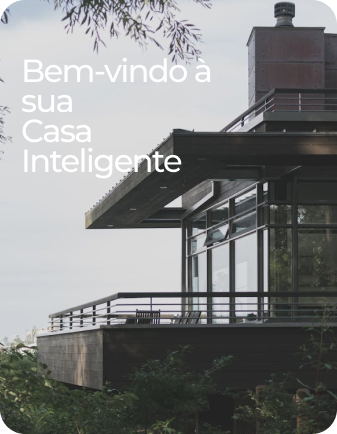
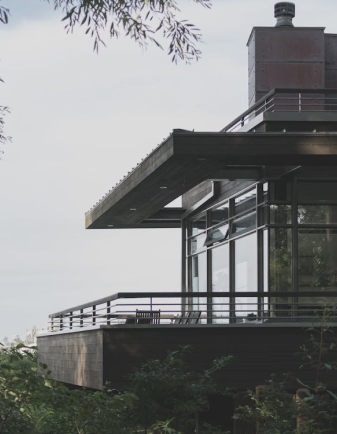
tela de boas-vindas e instalação de fontes

diff --git a/app/index.jsx b/app/index.jsx
@@ -1,15 +1,31 @@
 import { StyleSheet, Text, View, Image } from "react-native"
 import { Link } from "expo-router"
+import { StatusBar } from 'expo-status-bar'
+
+import { useFonts, Montserrat_500Medium } from "@expo-google-fonts/montserrat"
+import { Inter_400Regular } from "@expo-google-fonts/inter"
+import { useEffect } from "react"
 
 export default function Page() {
+  const [fontLoaded] = useFonts({
+    Montserrat_500Medium,
+    Inter_400Regular
+  })
+
+  if (!fontLoaded) {
+    return null
+  }
+
   return (
     <View style={styles.container}>
       <View style={styles.main}>
-        <Image style={styles.image} source={require("../assets/images/homeImage.png")} />
-        <Link href="#">Vamos começar</Link>
-        
-
+        <View style={styles.imageWrapper}>
+          <Image style={styles.image} source={require("../assets/images/homeImage.png")} />
+          <Text style={styles.text}>Bem-vindo à {"\n"}sua {"\n"}Casa {"\n"}Inteligente</Text>
+        </View>
+        <Link style={styles.button} href="/home">Vamos começar</Link>
       </View>
+      <StatusBar style="dark" />
     </View>
   );
 }
@@ -22,8 +38,37 @@ const styles = StyleSheet.create({
   },
   main: {
     flex: 1,
+    alignItems: "center",
+    gap: 50,
     justifyContent: "center",
     maxWidth: 960,
     marginHorizontal: "auto",
   },
+  imageWrapper: {
+    position: "relative"
+  },
+  image: {
+    position: "relative",
+    borderRadius: 25
+  },
+  text: {
+    fontFamily: "Montserrat_500Medium",
+    fontSize: 32,
+    letterSpacing: -1.3,
+    color: "white",
+    lineHeight: 30,
+    position: "absolute",
+    top: 60,
+    left: 20
+  },
+  button: {
+    backgroundColor: "#232323",
+    width: 225,
+    padding: 14,
+    color: "white",
+    textAlign: "center",
+    fontSize: 18,
+    borderRadius: 50,
+    fontFamily: 'Inter-Regular' 
+  }
 })

diff --git a/app/home.jsx b/app/home.jsx
@@ -1,0 +1,47 @@
+import { StyleSheet, Text, View, Image } from "react-native"
+import { Link } from "expo-router"
+import { StatusBar } from 'expo-status-bar'
+
+import { useFonts, Montserrat_500Medium } from "@expo-google-fonts/montserrat"
+import { Inter_400Regular } from "@expo-google-fonts/inter"
+
+function Home() {
+  const useName = "Luiz"
+
+  const [fontLoaded] = useFonts({
+    Montserrat_500Medium,
+    Inter_400Regular
+  })
+
+  if (!fontLoaded) {
+    return null
+  }
+
+  return ( 
+    <View style={styles.wrapper}>
+      <View>
+        <Text style={styles.mainText}>Olá {useName}, {"\n"}<Text style={styles.mainTextSecondColor}>Bem-vindo {"\n"}ao Lar!</Text></Text>
+      </View>
+      
+      <StatusBar style="dark" />
+    </View>
+   );
+}
+
+const styles = StyleSheet.create({
+  wrapper: {
+    padding: 20
+  },
+  mainText: {
+    fontFamily: "Montserrat_500Medium",
+    fontSize: 40,
+    color: "black",
+    lineHeight: 40,
+    letterSpacing: -1.3
+  },
+  mainTextSecondColor: {
+    color: "#818181"
+  }
+})
+
+export default Home;
